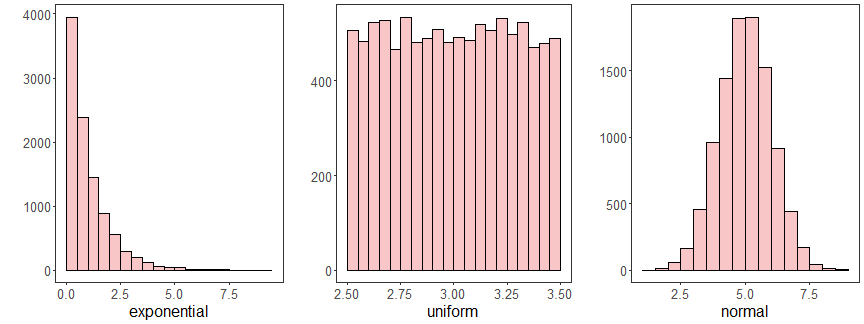
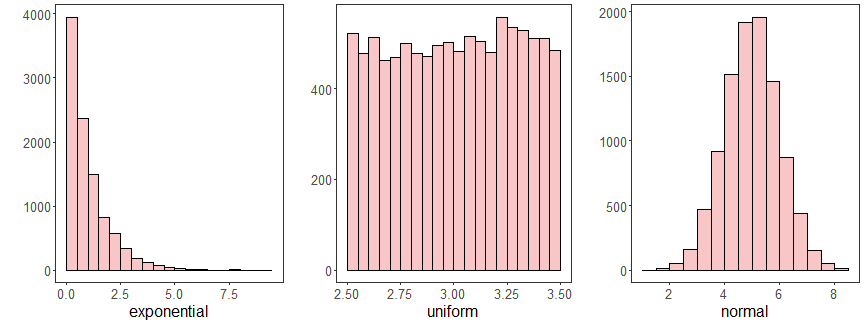
update

diff --git a/examples/3-DataVisualization.md b/examples/3-DataVisualization.md
@@ -170,23 +170,16 @@ head(example)
 
 ```
 ##   exponential  uniform   normal
-## 1  0.70352955 3.293809 6.913939
-## 2  2.54851510 2.665187 3.623018
-## 3  0.02192308 2.873872 3.627698
-## 4  1.06359727 3.339329 5.856955
-## 5  0.42391636 3.294677 4.994471
-## 6  0.39784867 3.387994 6.022813
+## 1  0.27917479 2.652692 5.160984
+## 2  1.04363853 3.484817 6.309846
+## 3  4.24100341 2.513868 4.289188
+## 4  0.21402575 2.529292 5.583072
+## 5  0.43153554 3.092940 5.549629
+## 6  0.06135224 3.472157 6.320404
 ```
 
 
 
-``` r
-suppressWarnings() 
-```
-
-```
-## Error in suppressWarnings(): argumento "expr" ausente, sem padrão
-```
 
 #### Histogram
 
@@ -195,7 +188,7 @@ suppressWarnings()
 library(dplyr)
 data <- example |> select(exponential)
 #head(data)
-grf <- plot_hist(data, label_x = "exponential", color=colors[1]) + font
+suppressWarnings(grf <- plot_hist(data, label_x = "exponential", color=colors[1]) + font)
 ```
 
 ```
@@ -203,7 +196,7 @@ grf <- plot_hist(data, label_x = "exponential", color=colors[1]) + font
 ```
 
 ``` r
-plot(grf)
+plot(grf) 
 ```
 
 ![plot of chunk unnamed-chunk-15](fig/3-DataVisualization/unnamed-chunk-15-1.png)
@@ -216,20 +209,6 @@ plot(grf)
 
 ``` r
 library(gridExtra)  
-```
-
-```
-## 
-## Anexando pacote: 'gridExtra'
-```
-
-```
-## O seguinte objeto é mascarado por 'package:dplyr':
-## 
-##     combine
-```
-
-``` r
 grfe <- plot_hist(example |> select(exponential), 
                   label_x = "exponential", color=colors[1]) + font
 ```
